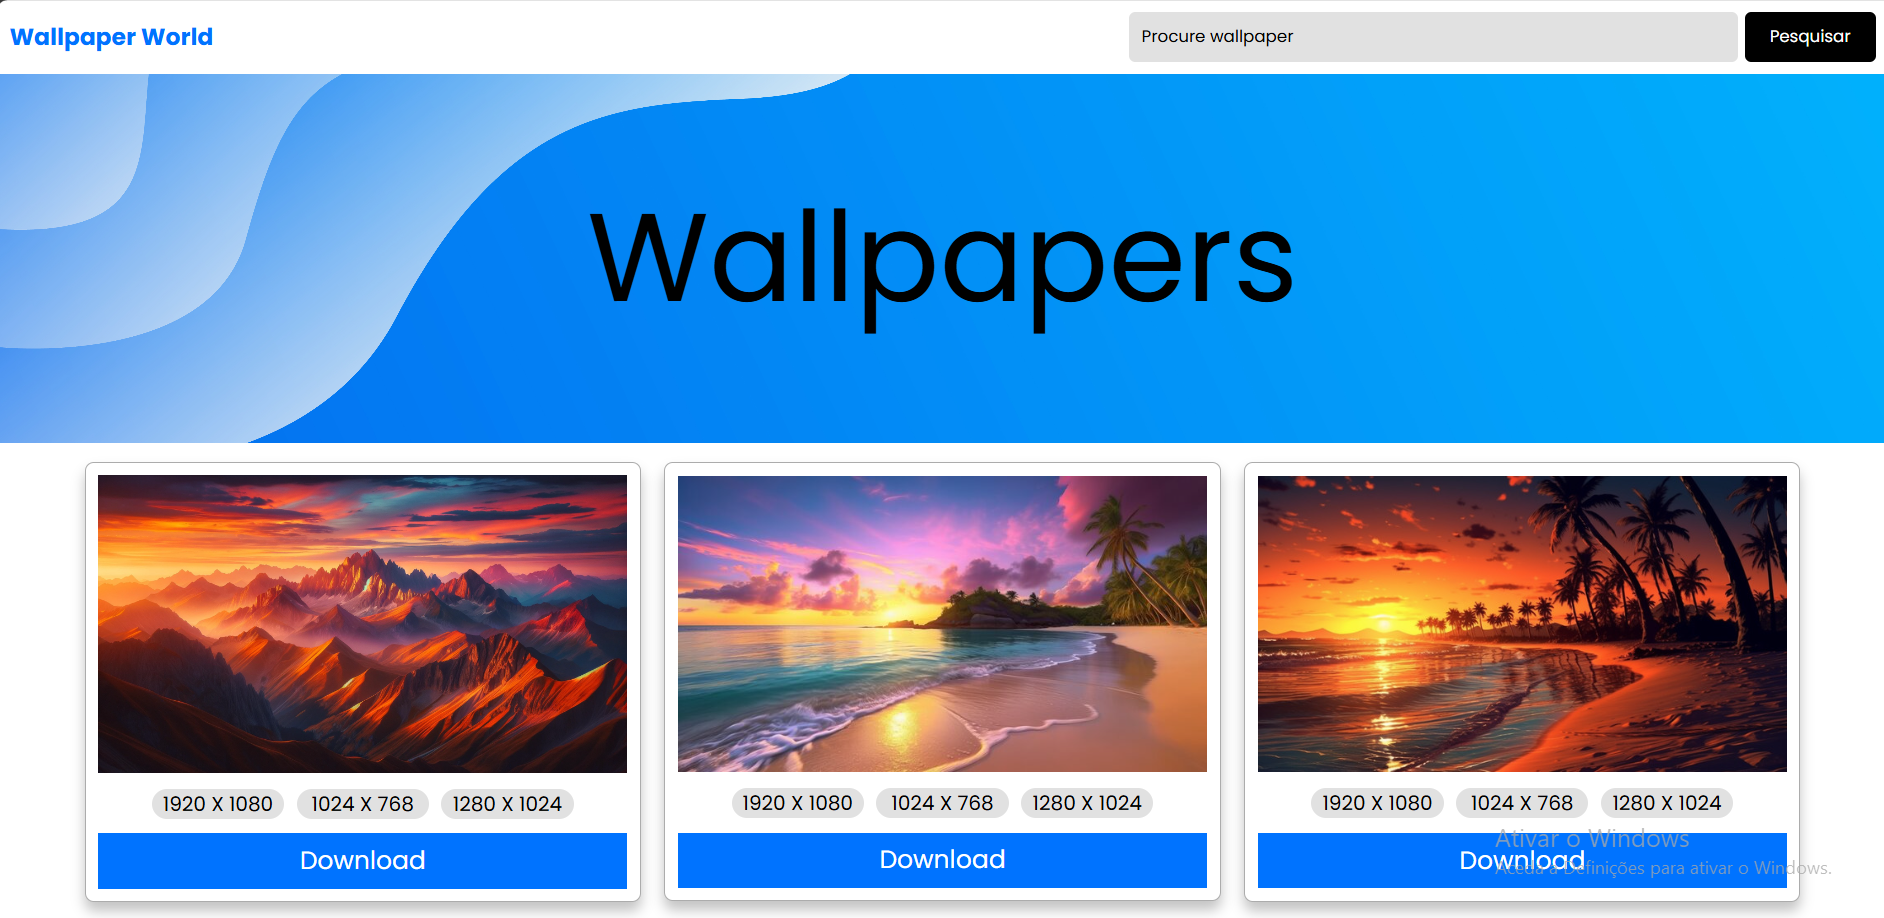
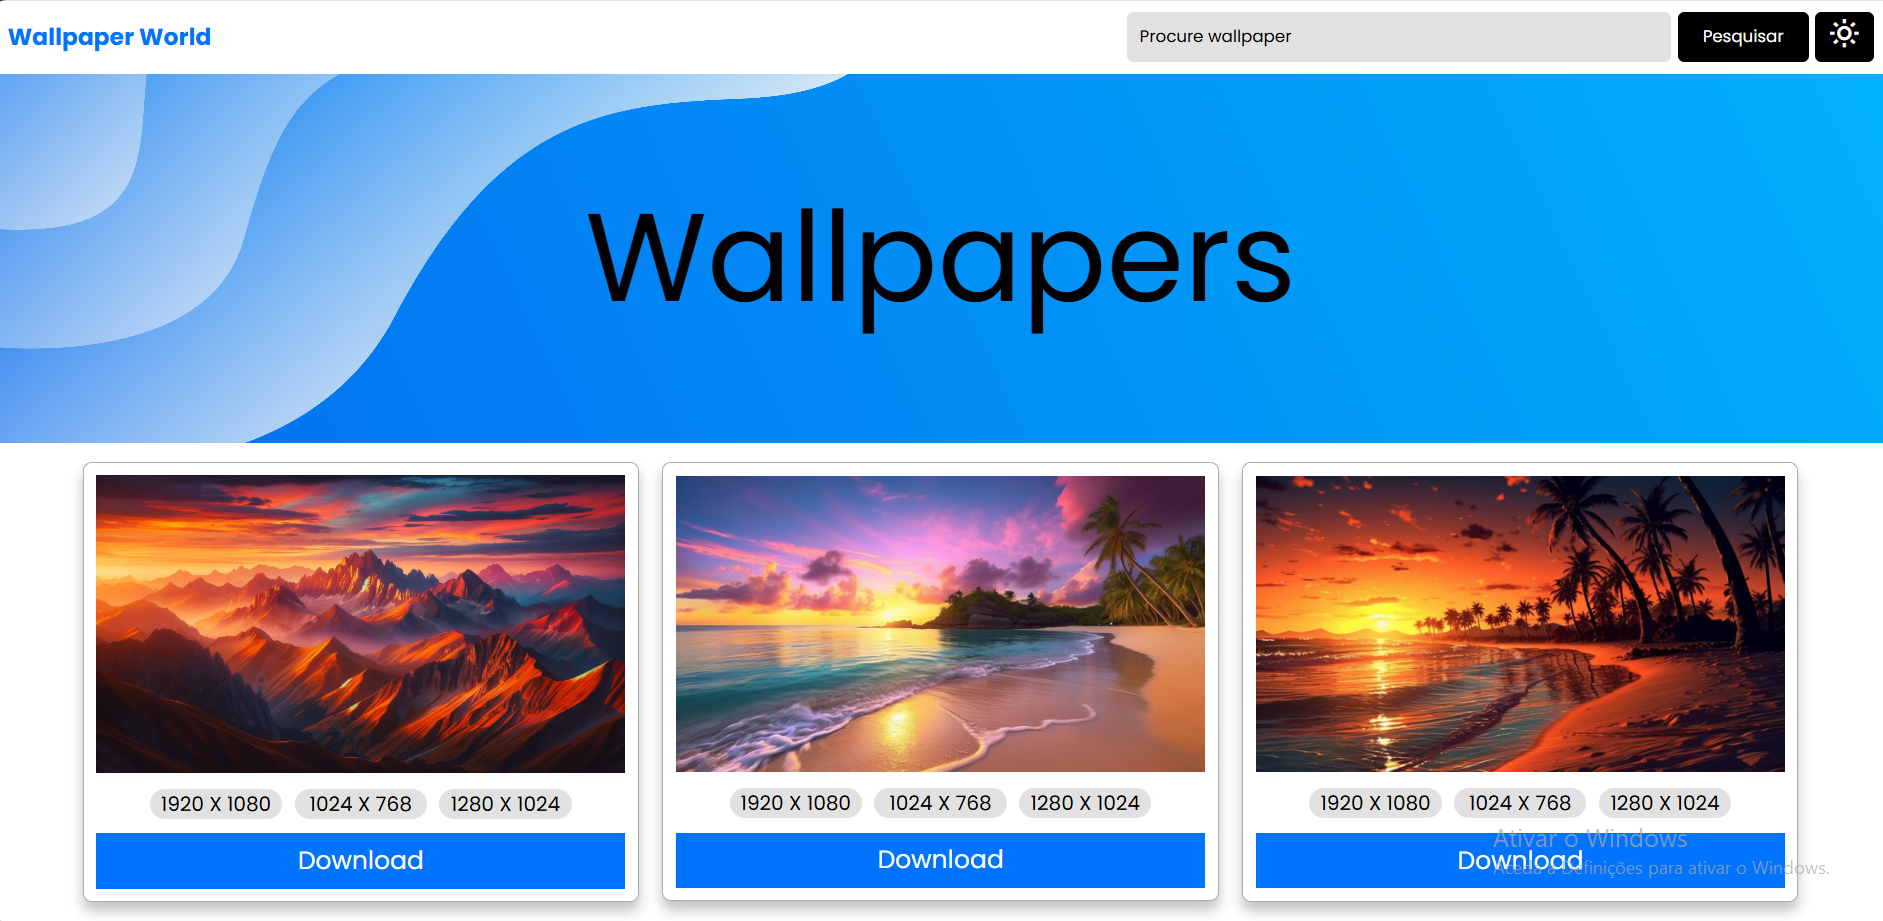
projeto_atualizado

diff --git a/Styles/darkmode.css b/Styles/darkmode.css
@@ -1,0 +1,53 @@
+.darkmode{
+    background-color: rgb(22, 22, 22);
+}
+
+.darkmode .menu h3{
+    color: blue;
+}
+
+.darkmode .pesquisa input{
+    background-color: rgb(49, 49, 49);
+    color: white;
+}
+
+.darkmode .pesquisa input::placeholder{
+    color: white;
+}
+
+.darkmode .pesquisa button{
+    background-color: blue;
+}
+
+.darkmode .pesquisa .mode{
+    background-color: white;
+    color: black;
+}
+
+.darkmode .cards{
+    background-color: rgb(49, 49, 49);
+    border: 1px solid black;
+}
+
+.darkmode .cards button{
+    background-color: blue;
+}
+
+.darkmode .cards button:hover{
+    background-color: darkblue;
+}
+
+.darkmode .tamanho p{
+    background-color: black;
+    color: white;
+}
+
+.darkmode .copyright{
+    background-color: black;
+    color: white;
+}
+
+.darkmode .redes i{
+    background-color: white;
+    color: black;
+}

diff --git a/index.html b/index.html
@@ -5,7 +5,7 @@
     <meta name="viewport" content="width=device-width, initial-scale=1.0">
     <link href='https://unpkg.com/boxicons@2.1.4/css/boxicons.min.css' rel='stylesheet'>
     <link rel="stylesheet" href="style.css">
-    <title>WallpaperWorld</title>
+    <title>Wallpaper World</title>
 </head>
 <body>
     <nav class="menu">
@@ -13,6 +13,7 @@
         <div class="pesquisa">
             <input type="text" placeholder="Procure wallpaper">
             <button>Pesquisar</button>
+            <button class="mode" onclick="darkmode()"><i class='bx bx-sun'></i></button>
         </div>
     </nav>
     <div class="banner" id="parallax">
@@ -90,5 +91,6 @@
             <i class='bx bxl-pinterest-alt'></i>
         </div>
     </div>
+    <script src="./script.js"></script>
 </body>
 </html>

diff --git a/style.css b/style.css
@@ -1,4 +1,5 @@
 @import url('https://fonts.googleapis.com/css2?family=Poppins:ital,wght@0,100;0,200;0,300;0,400;0,500;0,600;0,700;0,800;0,900;1,100;1,200;1,300;1,400;1,500;1,600;1,700;1,800;1,900&display=swap');
+@import url(./Styles/darkmode.css);
 *{
     margin: 0;
     padding: 0;
@@ -19,6 +20,7 @@
 
 body{
     background-color: var(--white);
+    transition-duration: 0.5s;
 }
 
 /*------Menu------*/
@@ -67,6 +69,13 @@ body{
     background-color: var(--black);
     color: var(--white);
     cursor: pointer;
+}
+
+/*------Botão_darkmode------*/
+.pesquisa .mode{
+    padding: 0px 10px;
+    border-radius: 5px;
+    font-size: 27px;
 }
 
 /*------Banner------*/

diff --git a/script.js b/script.js
@@ -1,0 +1,4 @@
+function darkmode() {
+    let element = document.body;
+    element.classList.toggle('darkmode');
+}
